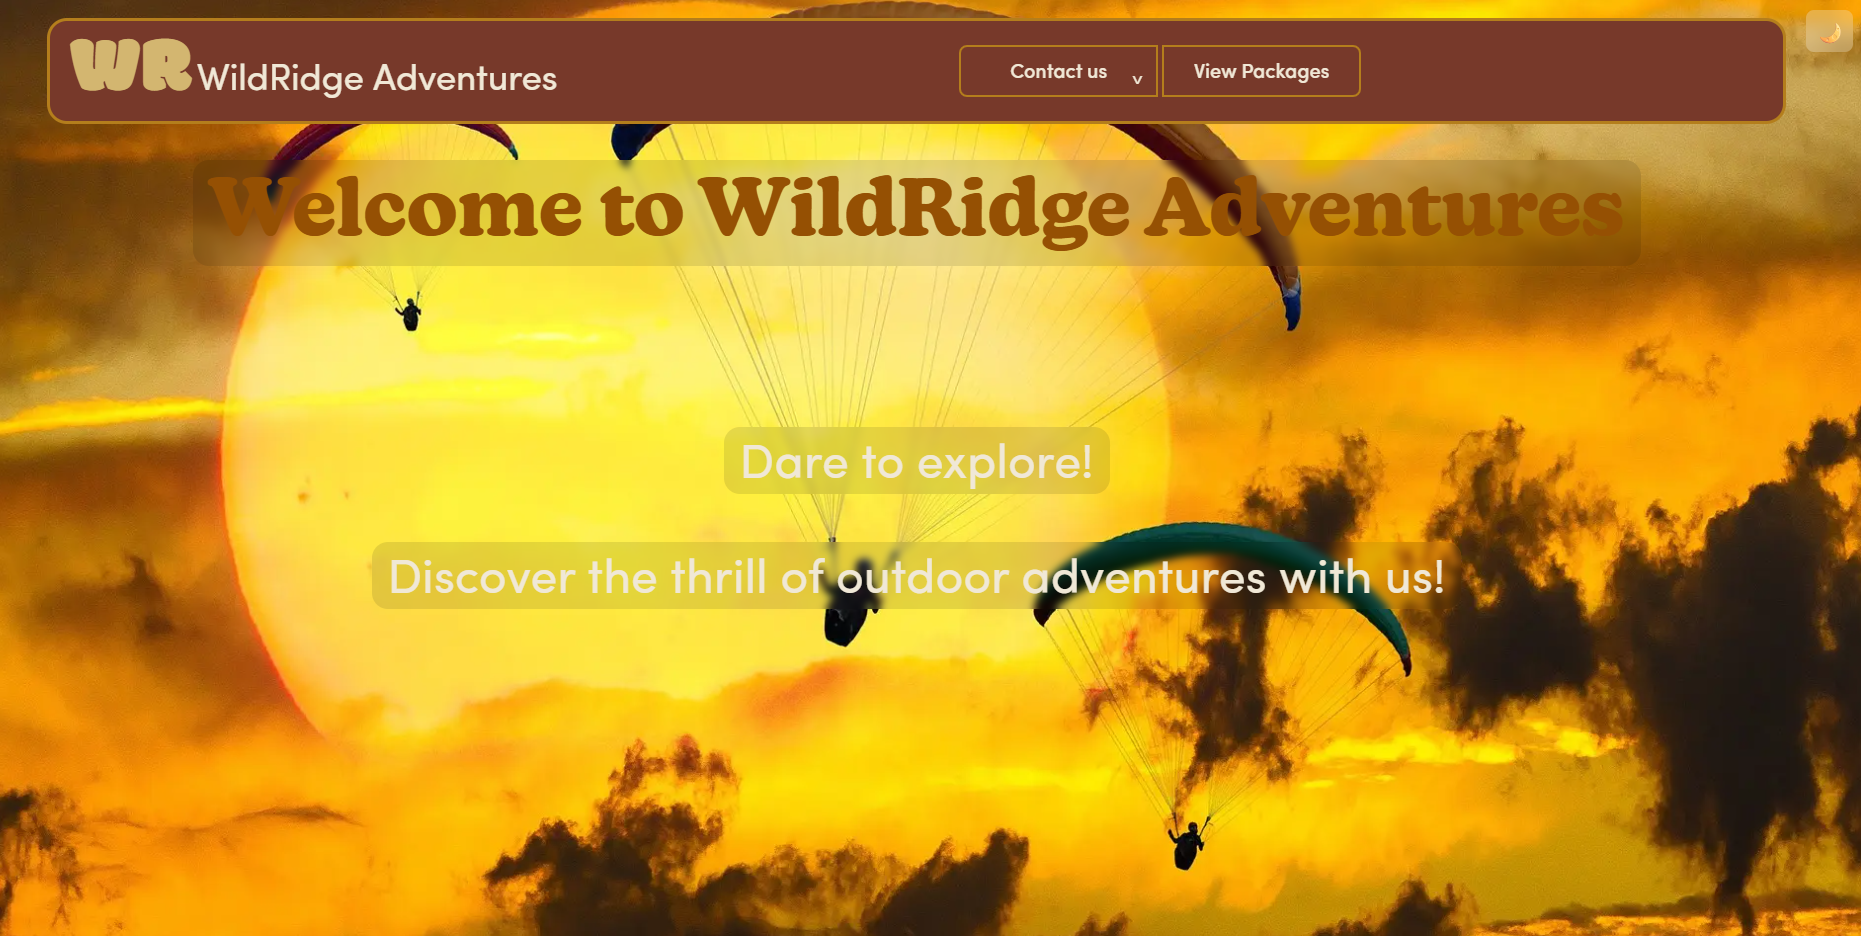
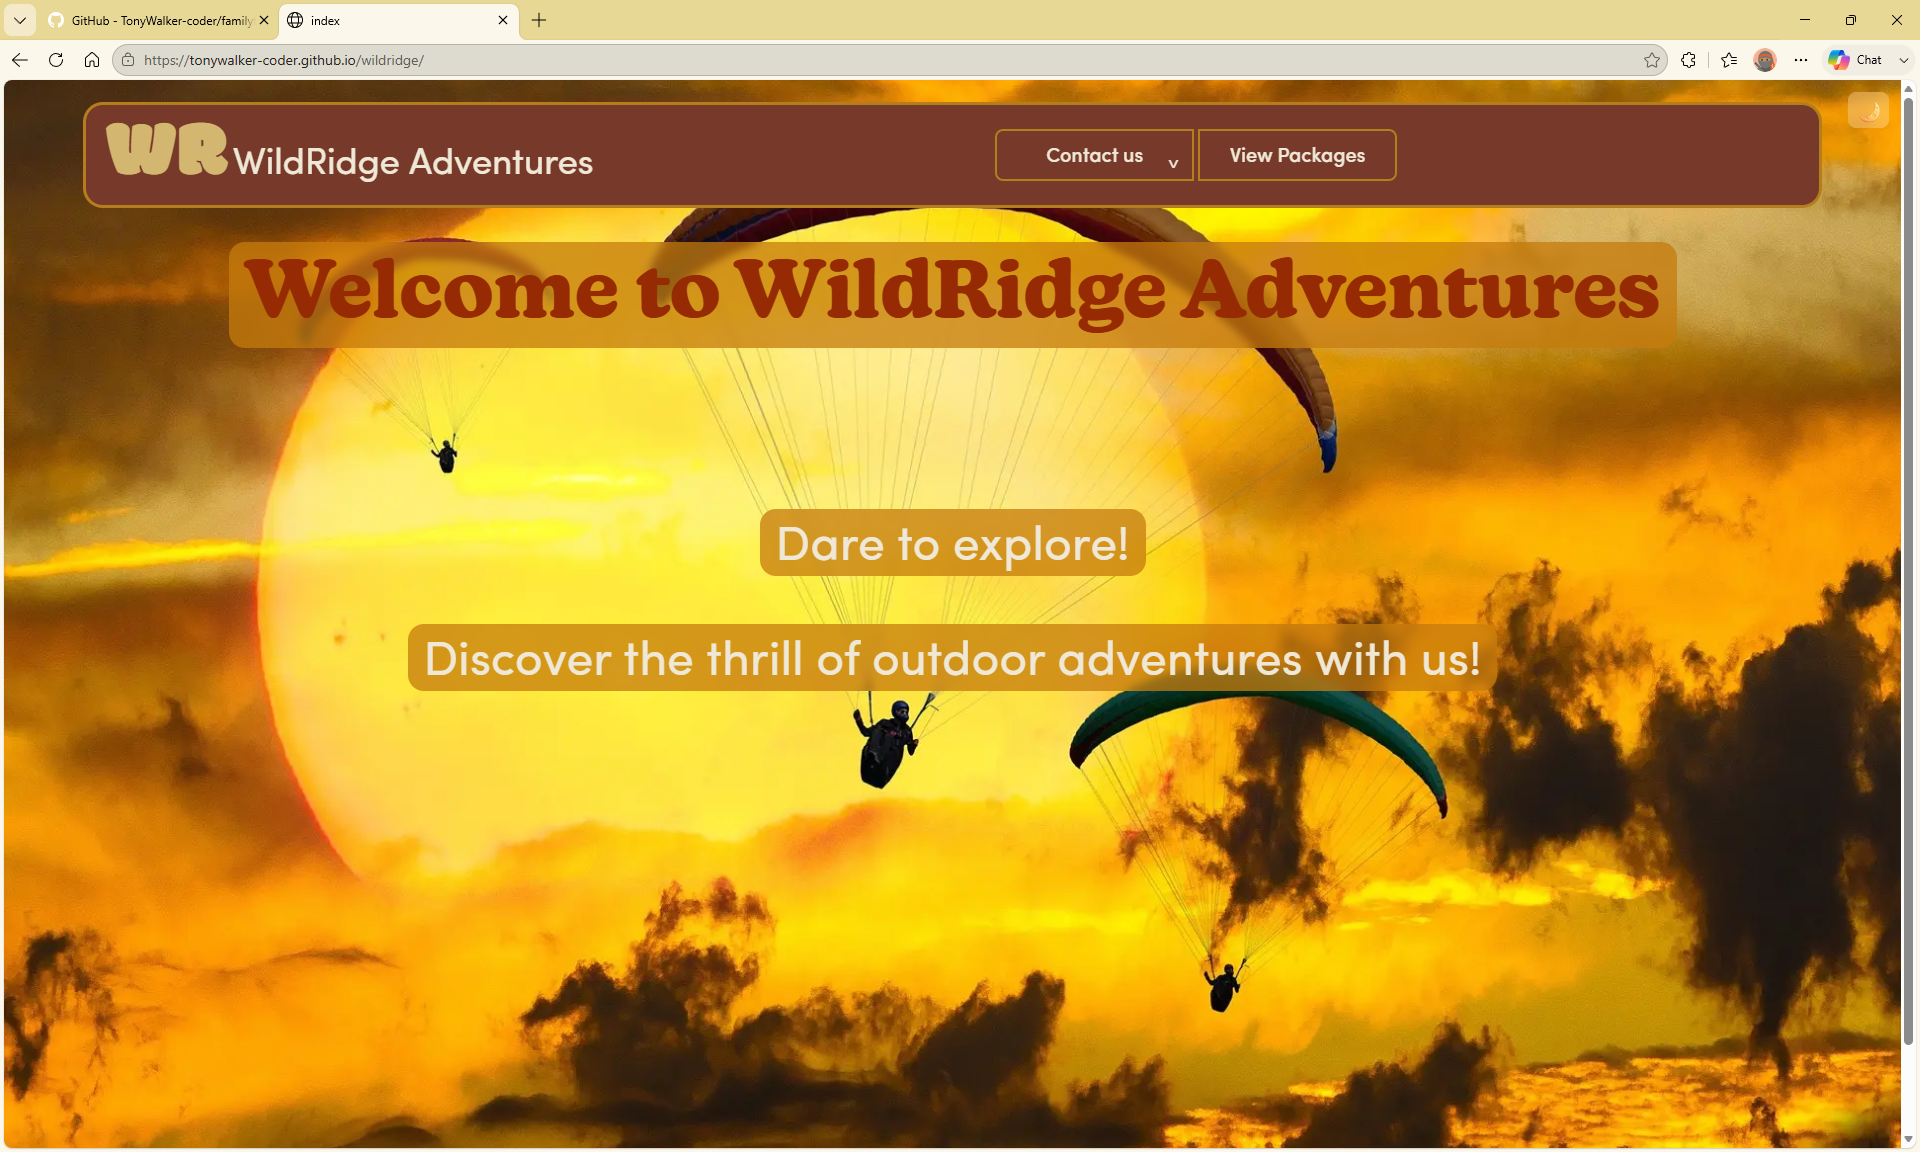
updating readme

diff --git a/assets/css/style.css b/assets/css/style.css
@@ -407,37 +407,26 @@ The rgba background provides a subtle tint to enhance contrast. */
 #hero h3 {
   font-family: var(--font-primary), sans-serif;
   /*one of colour for both themes to match hero image*/
-  
-  color: #955003;
   color: #952a03;
-  
   display: inline-block;
-  padding: var(--padding-1) var(--padding-4);
-  /*WebKit implementations, improving the user experience and compatibility for individuals on older devices.*/
-  -webkit-backdrop-filter: blur(var(--space-1));
-  backdrop-filter: blur(var(--space-1));
-  background: rgba(0, 0, 0, 0.1);
-  background: rgba(197, 123, 12, 0.75);
-  /* tweak as needed */
-  border-radius: var(--radius-lg);
 }
 
 #hero p {
   font-family: var(--font-secondary), sans-serif;
-  color: var(--color-text);
-  
+  color: var(--color-text); 
   display: block;
   width: fit-content;
   max-width: 60ch;
   margin-left: auto;
   margin-right: auto;
+}
+.hero-block {
   padding: var(--padding-1) var(--padding-4);
   /*WebKit implementations, improving the user experience and compatibility for individuals on older devices.*/
   -webkit-backdrop-filter: blur(var(--space-1));
   backdrop-filter: blur(var(--space-1));
-  background: rgba(0, 0, 0, 0.1);
-  background: rgba(197, 123, 12, 0.75);
-  /* tweak as needed */
+  background: rgba(197, 123, 12, 0.85);
+  text-shadow: 0 2px 4px rgba(0,0,0,0.35);
   border-radius: var(--radius-lg);
 }
 /* end of hero section styles */

diff --git a/index.html b/index.html
@@ -26,11 +26,11 @@
      The section is labeled with ARIA attributes for accessibility. -->
     <section id="hero" class="hero" aria-label="Welcome section">
       <div class="overlay">
-        <h1>Welcome to WildRidge Adventures</h1>
+        <h1 class="hero-block">Welcome to WildRidge Adventures</h1>
       </div>
       <div class="overlay">
-        <p>Dare to explore!</p>
-        <p>Discover the thrill of outdoor adventures with us!</p>
+        <p class="hero-block">Dare to explore!</p>
+        <p class="hero-block">Discover the thrill of outdoor adventures with us!</p>
       </div>
     </section>
   </main>

diff --git a/docs/testing.md b/docs/testing.md
@@ -1,0 +1,193 @@
+## Table of Contents
+
+- [Testing](#testing)
+- [Lighthouse](#lighthouse)
+- [Validators](#css)
+- [ESlint vs JSlint](#lint)
+- [Colour palette](#colours)
+- [Visual check](#visual-check)
+- [Link Check](#link-check)
+- [Browser support](#browser-support)
+- [Bugs / Design Features](#bugs)
+
+
+## Testing
+<a id="lighthouse"></a>
+
+## Lighthouse testing
+
+![Lighthouse testing](screenshots/lighthouse.png)
+
+<a id="css"></a>
+
+## CSS validator
+
+![CSS testing](screenshots/css.png)
+
+<h2 style=color:red;>Errors</h1>
+
+### use of scrollbar-gutter
+Browsers with full support for *scrollbar-gutter* can allocate a persistent gutter in the scroll container’s inline direction, ensuring that layout metrics remain stable even when overflow transitions from non‑scrolling to scrolling states. Engines that lack support simply ignore the declaration, falling back to their default scrollbar behavior without affecting the computed box model. Because the property is non-destructive and gracefully degrades, it functions as a safe progressive enhancement for maintaining predictable layout geometry across heterogeneous rendering environments.
+*<p style=color:green;>
+conclusion not an error</p>*
+
+### use of layer
+The validator reports *@layer* as an unrecognized at‑rule because it predates support for Cascade Layers and therefore cannot parse modern CSS constructs. Despite the warning, *@layer* is fully valid according to the current CSS specification and is implemented in all major browser engines. Since unsupported at‑rules are safely ignored by legacy parsers without affecting the cascade or computed styles, retaining *@layer* ensures proper layering semantics in compliant browsers while maintaining backward compatibility. The errors reflect validator limitations, not a defect in the stylesheet
+*<p style=color:green;>
+conclusion not an error</p>*
+
+### warnings 125
+
+*CSS variables*
+CSS custom properties resolve at runtime, not at parse time, so static validators can’t determine whether a variable exists or what value it will ultimately produce. The warnings come from that limitation, not from any issue in the code. We use CSS variables because they centralise design tokens, enable theming, reduce duplication, and keep the system scalable — all while degrading safely in browsers that don’t support them.
+
+*webkit*
+WebKit-prefixed properties exist to support browsers that still rely on legacy engine behaviour, most notably Safari on macOS and iOS. These prefixes enable features that were originally experimental or implemented before the relevant CSS specifications were finalised. Although modern browsers increasingly use the unprefixed versions, Safari continues to require certain *-webkit-* declarations for full functionality, especially for visual effects like *backdrop-filter*. The warnings simply reflect that prefixed properties fall outside the formal CSS grammar, not that they are incorrect or unsafe to use.
+
+## Markup validator
+
+![index](screenshots/index.png)
+*index.html*
+
+![packages](screenshots/packages.png)
+*packages.html*
+
+![driving error](screenshots/error.png)
+
+<p style=color:red;>The validator is correct there can not be a space in a URL unless it is encoded %20</p>
+
+<p style=color:green;>FIX renaming the file is the cleanest option</p>
+
+![driving](screenshots/driving.png)
+*driving.html*
+
+![skiing](screenshots/skiing.png)
+*skiing.html*
+
+![climbing](screenshots/climbing.png)
+*climbing.html*
+
+![hiking](screenshots/hiking.png)
+*hiking.html*
+
+<a id="lint"></a>
+
+### ESlint vs JSlint
+
+ESLint is a far more modern and flexible tool than JSLint, giving developers real control over their code quality instead of forcing rigid, outdated rules. It supports custom configurations, plugins, and environments, which means you can tailor it to your project rather than rewriting your project to satisfy the tool. ESLint understands modern JavaScript features, integrates cleanly with editors, and provides clear, actionable feedback instead of the blunt, inflexible warnings JSLint is known for. In short, ESLint fits naturally into a professional workflow, while JSLint feels like a relic from an earlier era of JavaScript.
+
+*screen shots*
+
+### VC extension
+![](screenshots/script.png)
+
+### web version
+![](screenshots/eslint.png)
+
+<a id="colours"></a>
+
+## Colour palette
+
+### Dark theme
+
+- text / background : 9.23:1
+- text / surface : 7.16:1
+- heading / background : 5.73:1 * suitable for headings
+- heading / surface : 4.45:1 * poor but not likely to be used 
+
+### Light theme
+
+- text / background : 7.4 : 1
+- text / surface : 5.48 : 1
+- heading / background : 8.13:1
+- heading / surface : 6.02:1
+
+### Alert colours
+
+- success : 6.91 : 1
+- warning : 5.81 : 1
+- error : 7.52 : 1
+
+## Visual Check
+
+| page| dark theme | light theme
+|------|---|---|
+| index | ✓ | ✓ |
+| contact | ✓ | ✓ |
+| product | ✓ | ✓ |
+| feedback modal | ✓ | ✓ |
+| newsletter modal | ✓ | ✓ |
+| driving | ✓ | ✓ |
+| skiing | ✓ | ✓ |
+| climbing | ✓ | ✓ |
+| hiking | ✓ | ✓ |
+| image modal | ✓ | ✓ |
+| booking modal | ✓ | ✓ |
+| weather modal | ✓ | ✓ |
+| success modal | ✓ | ✓ |
+
+## Link Check
+
+| page| links & buttons 
+|------|---|
+| logo| ✓ |
+| contact | ✓ |
+| social media| ✓ |
+| theme | ✓ |
+| product | ✓ |
+| feedback modal | ✓ |
+| newsletter modal | ✓ |
+| driving | ✓ |
+| skiing | ✓ |
+| climbing | ✓ |
+| hiking | ✓ |
+| image modal | ✓ |
+| booking modal | ✓ |
+| weather modal | ✓ |
+| success modal | ✓ |
+
+## Browser support
+
+### Edge
+![](screenshots/edge.png)
+
+### Chrome
+![](screenshots/crome.png)
+
+### Firefox
+![](screenshots/firefox.png)
+
+<a id="bugs"></a>
+
+## Bugs / Design Features
+
+### Initial load behaviour of the navigation component
+
+The navigation bar is loaded dynamically on each page. During the first visit, the browser must fetch and parse the external component before rendering it, which introduces a brief one‑time delay. After this initial request, the component is cached by the browser, and all subsequent page loads display the navigation immediately.
+This behaviour is an intentional design choice. Centralising the navigation logic ensures the codebase remains DRY, reduces duplication across pages, and simplifies long‑term maintenance. The minor first‑load delay is an expected consequence of this architecture and is not indicative of a performance issue.
+
+### Modal Testing Note
+
+A faint blue focus flash may still appear when clicking rapidly around the modal. This is caused by the browser briefly focusing underlying interactive elements before the modal fully intercepts the event.
+I have implemented the standard mitigations (focus redirection to the modal, outline removal, and backdrop coverage), which significantly reduce the frequency of the artefact. The behaviour is cosmetic, intermittent, and does not affect functionality.
+Decision: Leaving as-is. Revisit only if the modal gains additional interactive controls (zoom, navigation, captions) or if the artefact becomes more prominent after future UI changes.
+
+### Switching between Modals
+
+During visual testing I noted a brief transitional flash between the form modal closing and the success modal opening. The behaviour appears to be part of the standard modal transition sequence and does not indicate a functional issue.
+
+### Delays in loading weather Modal
+
+Because the weather modal relies on an external API, the response time can vary depending on network conditions. During slower fetches, users may click repeatedly because there’s no immediate visual feedback, which can lead to unnecessary or duplicate requests.
+
+#### FIX
+
+To prevent this and make the interaction feel more responsive, a “please wait” indicator was added. This provides instant confirmation that the request is in progress and helps guide the user while the data loads.
+
+### CTA Buttons
+
+During visual testing, I noticed that the booking, feedback, and newsletter buttons were obstructing the view on smaller screens.
+
+#### FIX
+
+To resolve this, I introduced a targeted media query at a 400px breakpoint, allowing the floating button to lift higher on compact displays. This ensures the UI remains clear, accessible, and visually balanced across all device sizes.

diff --git a/README.md b/README.md
@@ -16,6 +16,11 @@
 
 [Deployed Website](https://tonywalker-coder.github.io/wildridge/)
 
+## License
+
+This project is licensed under the MIT License.
+You are free to use, modify, distribute, and build upon this project for personal or commercial purposes.
+See the full license in the [**LICENSE**](LICENSE) file for complete details
 
 ## Table of Contents
 